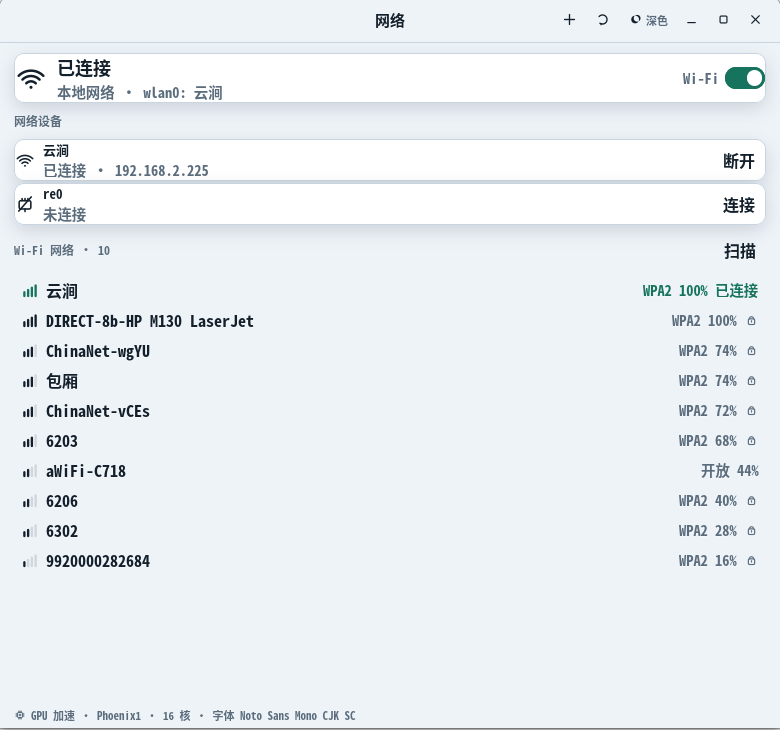
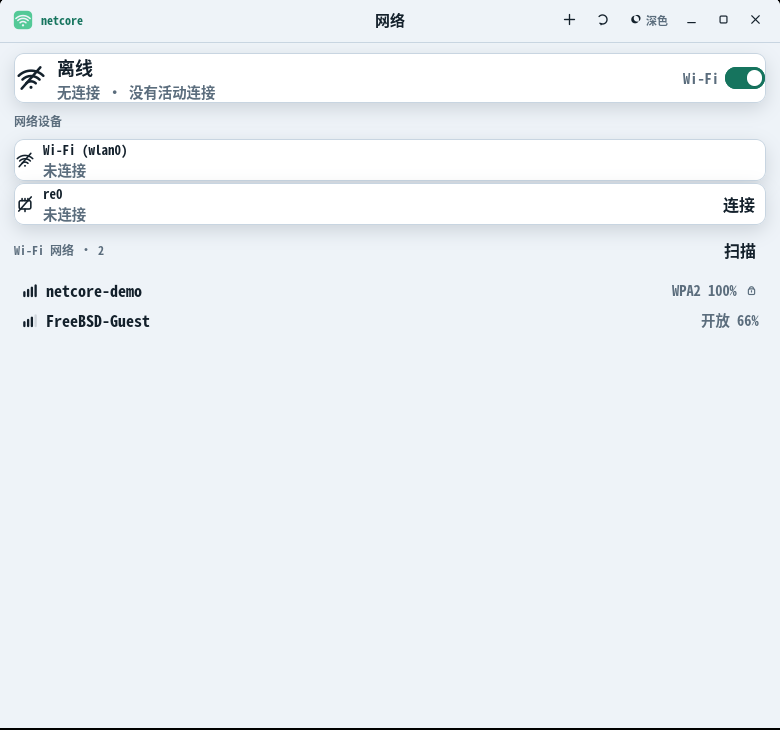
Remove acceleration footer from the GUI

diff --git a/crates/netcore-gui/src/app.rs b/crates/netcore-gui/src/app.rs
@@ -22,7 +22,6 @@ use netcore_common::{
 };
 use tokio::sync::mpsc::UnboundedSender;
 
-use crate::accel;
 use crate::client::{self, Request, UiEvent};
 use crate::icons::{self, IconKind, NetcoreIcon, NetcoreSpinner};
 use crate::theme::{ThemeMode, Themer};
@@ -266,31 +265,9 @@ fn build_window(application: &Application, bus: BusKind, initial_theme: ThemeMod
     banner.set_margin_end(14);
     banner.set_margin_bottom(8);
 
-    let acceleration = accel::detect();
-    let footer = GtkBox::new(Orientation::Horizontal, 5);
-    footer.add_css_class("netcore-footer");
-    let footer_icon = NetcoreIcon::new(IconKind::Chip, 12);
-    footer_icon.widget().add_css_class("netcore-icon-dim");
-    footer.append(&footer_icon.widget());
-    let footer_label = Label::new(Some(&format!(
-        "{} · 字体 {}",
-        acceleration.summary,
-        themer.font_family()
-    )));
-    footer_label.set_xalign(0.0);
-    footer_label.set_hexpand(true);
-    footer_label.set_ellipsize(gtk::pango::EllipsizeMode::End);
-    footer.append(&footer_label);
-    footer.set_tooltip_text(Some(&format!(
-        "{}\n字体：{}",
-        acceleration.detail,
-        themer.font_family()
-    )));
-
     let root = GtkBox::new(Orientation::Vertical, 0);
     root.append(&scrolled);
     root.append(&banner);
-    root.append(&footer);
     window.set_child(Some(&root));
 
     let ui = Rc::new(Ui {

diff --git a/crates/netcore-gui/src/theme.rs b/crates/netcore-gui/src/theme.rs
@@ -67,11 +67,6 @@ impl Themer {
         themer
     }
 
-    #[must_use]
-    pub fn font_family(&self) -> &str {
-        &self.font_family
-    }
-
     pub fn toggle(&self) -> ThemeMode {
         let mode = self.mode.get().toggled();
         self.mode.set(mode);
@@ -550,17 +545,6 @@ separator {
 .netcore-banner-success {
     background-color: @nc_success_soft;
     border-color: @nc_success;
-}
-
-.netcore-footer {
-    color: @nc_dim;
-    padding: 1px 14px 5px 14px;
-}
-
-.netcore-footer label {
-    color: @nc_dim;
-    font-size: 11px;
-    text-shadow: none;
 }
 
 .netcore-password-row entry {

diff --git a/crates/netcore-gui/src/accel.rs b/crates/netcore-gui/src/accel.rs
@@ -2,8 +2,8 @@
 //!
 //! The GUI is a normal GTK4 application, so GSK chooses the concrete renderer.
 //! We still inspect the system before GTK starts: when no DRM device exists we
-//! explicitly ask GSK for its Cairo (CPU) renderer, and we surface the detected
-//! GPU/CPU and font information in the application footer.
+//! explicitly ask GSK for its Cairo (CPU) renderer. The UI does not display
+//! hardware diagnostics; set NETCORE_DEBUG_ACCEL=1 for a one-line stderr report.
 
 use std::process::Command;
 

diff --git a/crates/netcore-gui/src/main.rs b/crates/netcore-gui/src/main.rs
@@ -45,5 +45,9 @@ fn main() {
         ThemeArg::Light => ThemeMode::Light,
     };
     accel::prepare_renderer();
+    if std::env::var_os("NETCORE_DEBUG_ACCEL").is_some() {
+        let info = accel::detect();
+        eprintln!("netcore: {}; {}", info.summary, info.detail);
+    }
     app::run(bus, theme);
 }

diff --git a/docs/testing.md b/docs/testing.md
@@ -41,8 +41,8 @@ Netlink 消息解析与 socket bind、wpa_cli status/scan_results 解析、SSID
 - CLI status/list/scan/doctor/monitor 正常；monitor 连续收到初始快照和
   扫描后的 SnapshotChanged。
 - 非 root 修改操作返回 NotAuthorized，未触碰网络。
-- GTK4 界面启动，显示设备、IP、网络列表；深色/浅色截图分别为
-  docs/screenshot-gui.png 和 docs/screenshot-gui-light.png。
+- GUI 深/浅色布局截图使用 mock 后端，分别为 docs/screenshot-gui.png 和
+  docs/screenshot-gui-light.png；真实扫描与 C locale 验证见下方。
 - 最终 release 构建的 netcore-daemon --capsicum 在会话总线启动，helper 进程
   状态为 SC，netlink_active=true。
 - XFCE 插件在隔离 Xvfb + 私有 D-Bus 的临时面板中加载，显示 Wi-Fi 图标和
@@ -84,7 +84,8 @@ Netlink 消息解析与 socket bind、wpa_cli status/scan_results 解析、SSID
 - 通过界面内“浅色/深色”按钮和合成鼠标点击完成主题切换；切换后所有自绘图标
   重绘，无重启。
 - 字体检测读取当前系统字体 Noto Sans Mono CJK SC；全界面统一 700 字重，
-  抗锯齿和轻 hinting 生效，底部状态栏显示字体族。
+  抗锯齿和轻 hinting 生效。字体/GPU/CPU 信息不显示在界面；设置
+  NETCORE_DEBUG_ACCEL=1 时输出到 stderr。
 - 自绘 Wi-Fi、以太网、信号条、锁、刷新、加减、窗口控制、太阳/月亮、芯片、
   眼睛和旋转指示器图标；界面中不再调用系统图标名或 GtkPasswordEntry。
 - 密码/隐藏网络对话框使用自绘关闭按钮、极简密码框和自绘眼睛切换；焦点环
@@ -92,8 +93,9 @@ Netlink 消息解析与 socket bind、wpa_cli status/scan_results 解析、SSID
 - 设置 GTK_THEME=Adwaita:light 启动默认深色，截图与常规深色一致，确认
   应用配色不依赖桌面主题。
 - 自绘关闭按钮可关闭窗口；窗口控制不依赖系统标题栏按钮。
-- 本机 /dev/dri 可用，底部显示 GPU 加速、活动 DRM 显卡 Phoenix1 和 16 核；
-  GSK 渲染器与 CPU 型号在 tooltip 中。无 DRM 时的 CPU/Cairo 回退分支已编码。
+- 本机 /dev/dri 可用，内部检测到 GPU 加速、活动 DRM 显卡 Phoenix1 和 16 核；
+  GSK 渲染器与 CPU 型号可通过 NETCORE_DEBUG_ACCEL=1 诊断输出。无 DRM 时的
+  CPU/Cairo 回退分支已编码。
 - 自绘应用图标安装到 hicolor 主题目录，桌面文件 Icon 使用该图标。
 
 ## 桌面扩展验证

diff --git a/docs/ui.md b/docs/ui.md
@@ -33,8 +33,8 @@ netcore-gui 使用 GTK4，但视觉系统不继承桌面主题。界面固定提
 - 字号使用界面自己的层级，不跟随桌面的字号设置无限放大；字体族则明确来自
   当前系统。
 
-底部状态栏会显示检测到的字体族。完整字体名、CPU 型号与 GSK 渲染器在底部
-状态栏的 tooltip 中。
+检测到的字体族只用于应用 CSS 和 Pango 渲染，不显示状态文字。需要诊断时可在
+启动时设置 NETCORE_DEBUG_ACCEL=1，将字体/GPU/CPU 信息输出到 stderr。
 
 ## 自绘图标
 
@@ -59,9 +59,9 @@ GTK 启动前，程序检查 `/dev/dri` 中是否存在 card/render 设备：
 - 无 DRM 设备：设置 `GSK_RENDERER=cairo`，使用 CPU/Cairo 软件渲染。
 - 用户显式设置 `GSK_RENDERER` 时不覆盖。
 
-界面底部显示“GPU 加速 · 显卡 · 核心数 · 字体”或“CPU 渲染 · CPU · 核心数 ·
-字体”。tooltip 进一步显示 CPU、GPU、GSK 渲染器和字体信息。检测是可用性
-判断；具体光栅化路径仍由 GTK/GSK 和驱动决定。
+检测结果不占用界面。需要诊断时设置 NETCORE_DEBUG_ACCEL=1，启动日志会输出
+GPU/CPU、GSK 渲染器和字体信息。检测只是可用性判断；具体光栅化路径仍由
+GTK/GSK 和驱动决定。
 
 ## 启动参数
 
@@ -71,7 +71,7 @@ GTK 启动前，程序检查 `/dev/dri` 中是否存在 card/render 设备：
 
 主题选择不写入配置；每次启动默认深色。
 
-截图：
+截图使用 mock 后端展示布局，不代表真实网络列表：
 
 - 深色：[screenshot-gui.png](screenshot-gui.png)
 - 浅色：[screenshot-gui-light.png](screenshot-gui-light.png)

diff --git a/README.md b/README.md
@@ -18,6 +18,8 @@ getifaddrs(3) 与 NETLINK_ROUTE，以及 D-Bus 作为稳定的控制面。
 
 ![netcore GTK4 网络管理器 - 浅色主题](docs/screenshot-gui-light.png)
 
+截图使用 mock 后端展示界面布局；真实扫描、SSID 与 C locale 验证见 docs/testing.md。
+
 ![XFCE Panel 插件](docs/screenshot-xfce-panel.png)
 
 界面配色、字体、图标和加速检测说明见 [docs/ui.md](docs/ui.md)。
@@ -44,7 +46,7 @@ SSID 真实性与跨系统设备发现见 [docs/authenticity.md](docs/authentici
 - 自绘 Cairo 图标、窗口控制按钮和应用图标；主窗口左上角显示 netcore 字标，
   任务栏图标在运行时由自绘 PNG 设置，不依赖系统图标主题
 - 自动识别系统字体族，统一粗体、抗锯齿与文本后处理
-- 启动时检测 DRM GPU；无 GPU 时自动回退 Cairo CPU 渲染，并在界面底部展示
+- 启动时检测 DRM GPU；无 GPU 时自动回退 Cairo CPU 渲染（检测仅在内部使用，不占界面）
 
 ## 快速开始
 
